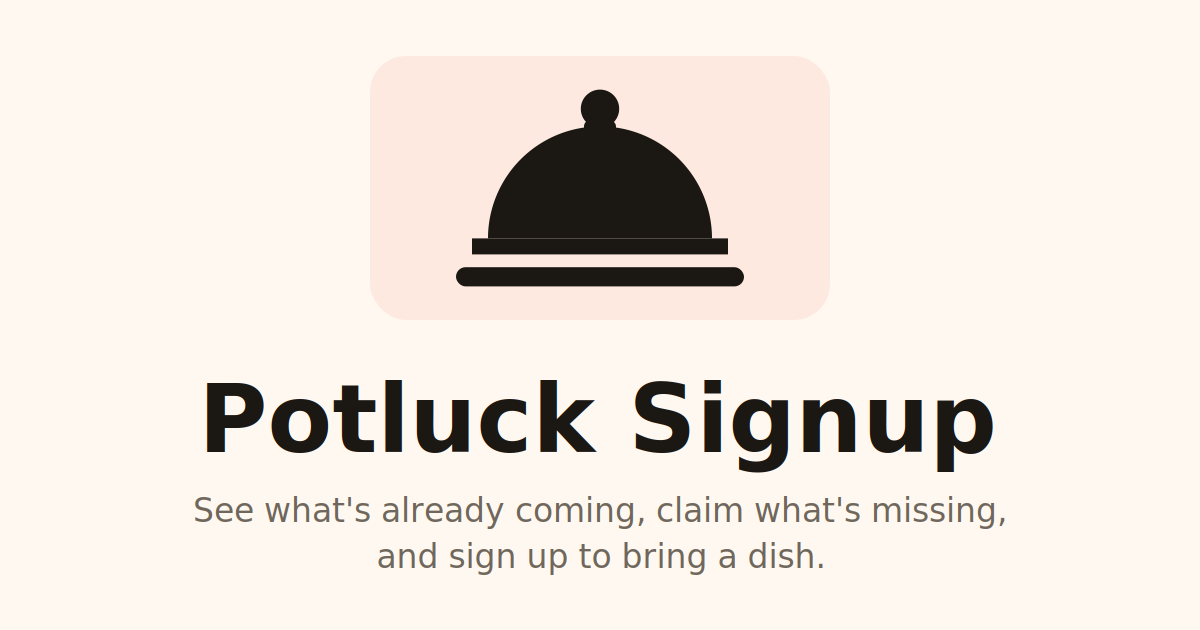
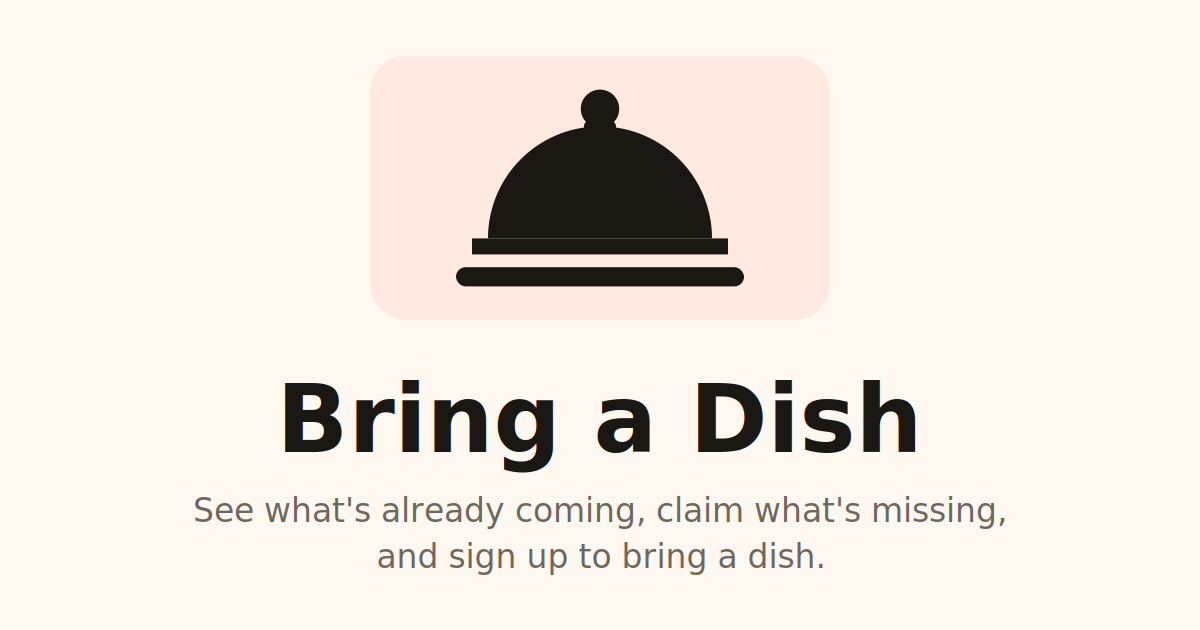
Rename app to Bring a Dish

Changed region(s): [[0.1542, 0.6032, 0.8325, 0.754]]

diff --git a/index.html b/index.html
@@ -7,12 +7,12 @@
     <meta name="mobile-web-app-capable" content="yes" />
     <meta name="apple-mobile-web-app-capable" content="yes" />
     <meta name="apple-mobile-web-app-status-bar-style" content="default" />
-    <meta name="apple-mobile-web-app-title" content="Potluck" />
+    <meta name="apple-mobile-web-app-title" content="Bring a Dish" />
     <meta
       name="description"
       content="Sign up for a potluck, see who is coming and what they are bringing, and spot what the menu still needs."
     />
-    <meta property="og:title" content="Potluck Signup" />
+    <meta property="og:title" content="Bring a Dish" />
     <meta
       property="og:description"
       content="See what's already coming, claim what's missing, and sign up to bring a dish."
@@ -21,7 +21,7 @@
     <meta property="og:url" content="https://jcirni.github.io/potluck-signup/" />
     <meta property="og:image" content="https://jcirni.github.io/potluck-signup/og.png" />
     <meta name="twitter:card" content="summary_large_image" />
-    <meta name="twitter:title" content="Potluck Signup" />
+    <meta name="twitter:title" content="Bring a Dish" />
     <meta
       name="twitter:description"
       content="See what's already coming, claim what's missing, and sign up to bring a dish."
@@ -29,7 +29,7 @@
     <meta name="twitter:image" content="https://jcirni.github.io/potluck-signup/og.png" />
     <link rel="icon" type="image/svg+xml" href="icons/icon.svg" />
     <link rel="apple-touch-icon" href="icons/apple-touch-icon.png" />
-    <title>Potluck Signup</title>
+    <title>Bring a Dish</title>
   </head>
   <body>
     <div id="root"></div>

diff --git a/src/lib/linksEmail.test.ts b/src/lib/linksEmail.test.ts
@@ -17,13 +17,13 @@ describe('buildLinksMailto', () => {
   it('addresses nobody and puts the event name in the subject', () => {
     const href = buildLinksMailto({ eventName: 'Taco Night', guestUrl: guest })
     expect(href.startsWith('mailto:?subject=')).toBe(true)
-    expect(parts(href).subject).toBe('Your potluck links: Taco Night')
+    expect(parts(href).subject).toBe('Your Bring a Dish links: Taco Night')
   })
 
   it('encodes special characters in the subject', () => {
     const href = buildLinksMailto({ eventName: 'Fish & Chips Night?', guestUrl: guest })
     expect(href).not.toContain('Fish & Chips')
-    expect(parts(href).subject).toBe('Your potluck links: Fish & Chips Night?')
+    expect(parts(href).subject).toBe('Your Bring a Dish links: Fish & Chips Night?')
   })
 
   it('names the event and includes the guest link and closing line in the body', () => {

diff --git a/src/App.tsx b/src/App.tsx
@@ -558,10 +558,10 @@ export default function App() {
         <div className="hero-top">
           <a className="home-link" href="./">
             <img src="icons/icon.svg" alt="" width={20} height={20} />
-            Potluck Signup
+            Bring a Dish
           </a>
         </div>
-        <p className="hero-eyebrow">Potluck signup</p>
+        <p className="hero-eyebrow">Bring a Dish</p>
         <h1 className="hero-name">{displayEventName(event, eventName)}</h1>
         {event?.date && <p className="hero-date">{formatEventDate(event.date)}</p>}
         {event?.location && <p className="hero-location">{event.location}</p>}

diff --git a/src/lib/linksEmail.ts b/src/lib/linksEmail.ts
@@ -1,6 +1,6 @@
 /** A mailto: href carrying an event's links, so the host can email them to themselves and not lose them. */
 export function buildLinksMailto(input: { eventName: string; guestUrl: string; adminUrl?: string }): string {
-  const subject = `Your potluck links: ${input.eventName}`
+  const subject = `Your Bring a Dish links: ${input.eventName}`
   const lines = [`Your links for ${input.eventName}:`, '', 'Guest link (share this one):', input.guestUrl]
   if (input.adminUrl) {
     lines.push('', 'Host link (keep this one private: it controls the event):', input.adminUrl)

diff --git a/src/components/Home.tsx b/src/components/Home.tsx
@@ -42,7 +42,7 @@ export default function Home({ store, mode, showInstallButton, installHint, onIn
     <>
       <header className="hero home-hero">
         <img className="home-icon" src="icons/icon.svg" alt="" width={76} height={76} />
-        <h1 className="hero-name">Potluck Signup</h1>
+        <h1 className="hero-name">Bring a Dish</h1>
         <p className="home-tagline">
           See what&rsquo;s already coming, claim what&rsquo;s missing, and sign up to bring a dish.
         </p>

diff --git a/vite.config.ts b/vite.config.ts
@@ -9,8 +9,8 @@ export default defineConfig({
     VitePWA({
       registerType: 'autoUpdate',
       manifest: {
-        name: 'Potluck Signup',
-        short_name: 'Potluck',
+        name: 'Bring a Dish',
+        short_name: 'Bring a Dish',
         description:
           'Sign up for a potluck, see who is coming and what they are bringing, and spot what the menu still needs.',
         theme_color: '#FFF8F0',

diff --git a/src/lib/ics.ts b/src/lib/ics.ts
@@ -71,7 +71,7 @@ export function buildICS(event: PotluckEvent, signups: Signup[]): string {
   const lines = [
     'BEGIN:VCALENDAR',
     'VERSION:2.0',
-    'PRODID:-//Potluck Signup//EN',
+    'PRODID:-//Bring a Dish//EN',
     'BEGIN:VEVENT',
     `UID:${event.id}@potluck-signup`,
     `DTSTAMP:${new Date().toISOString().replace(/[-:]/g, '').replace(/\.\d+Z$/, 'Z')}`,

diff --git a/README.md b/README.md
@@ -1,4 +1,4 @@
-# Potluck signup
+# Bring a Dish
 
 A userless potluck signup app. Anyone can create an event, share one
 link, and every guest can see who is coming, what they are bringing,
